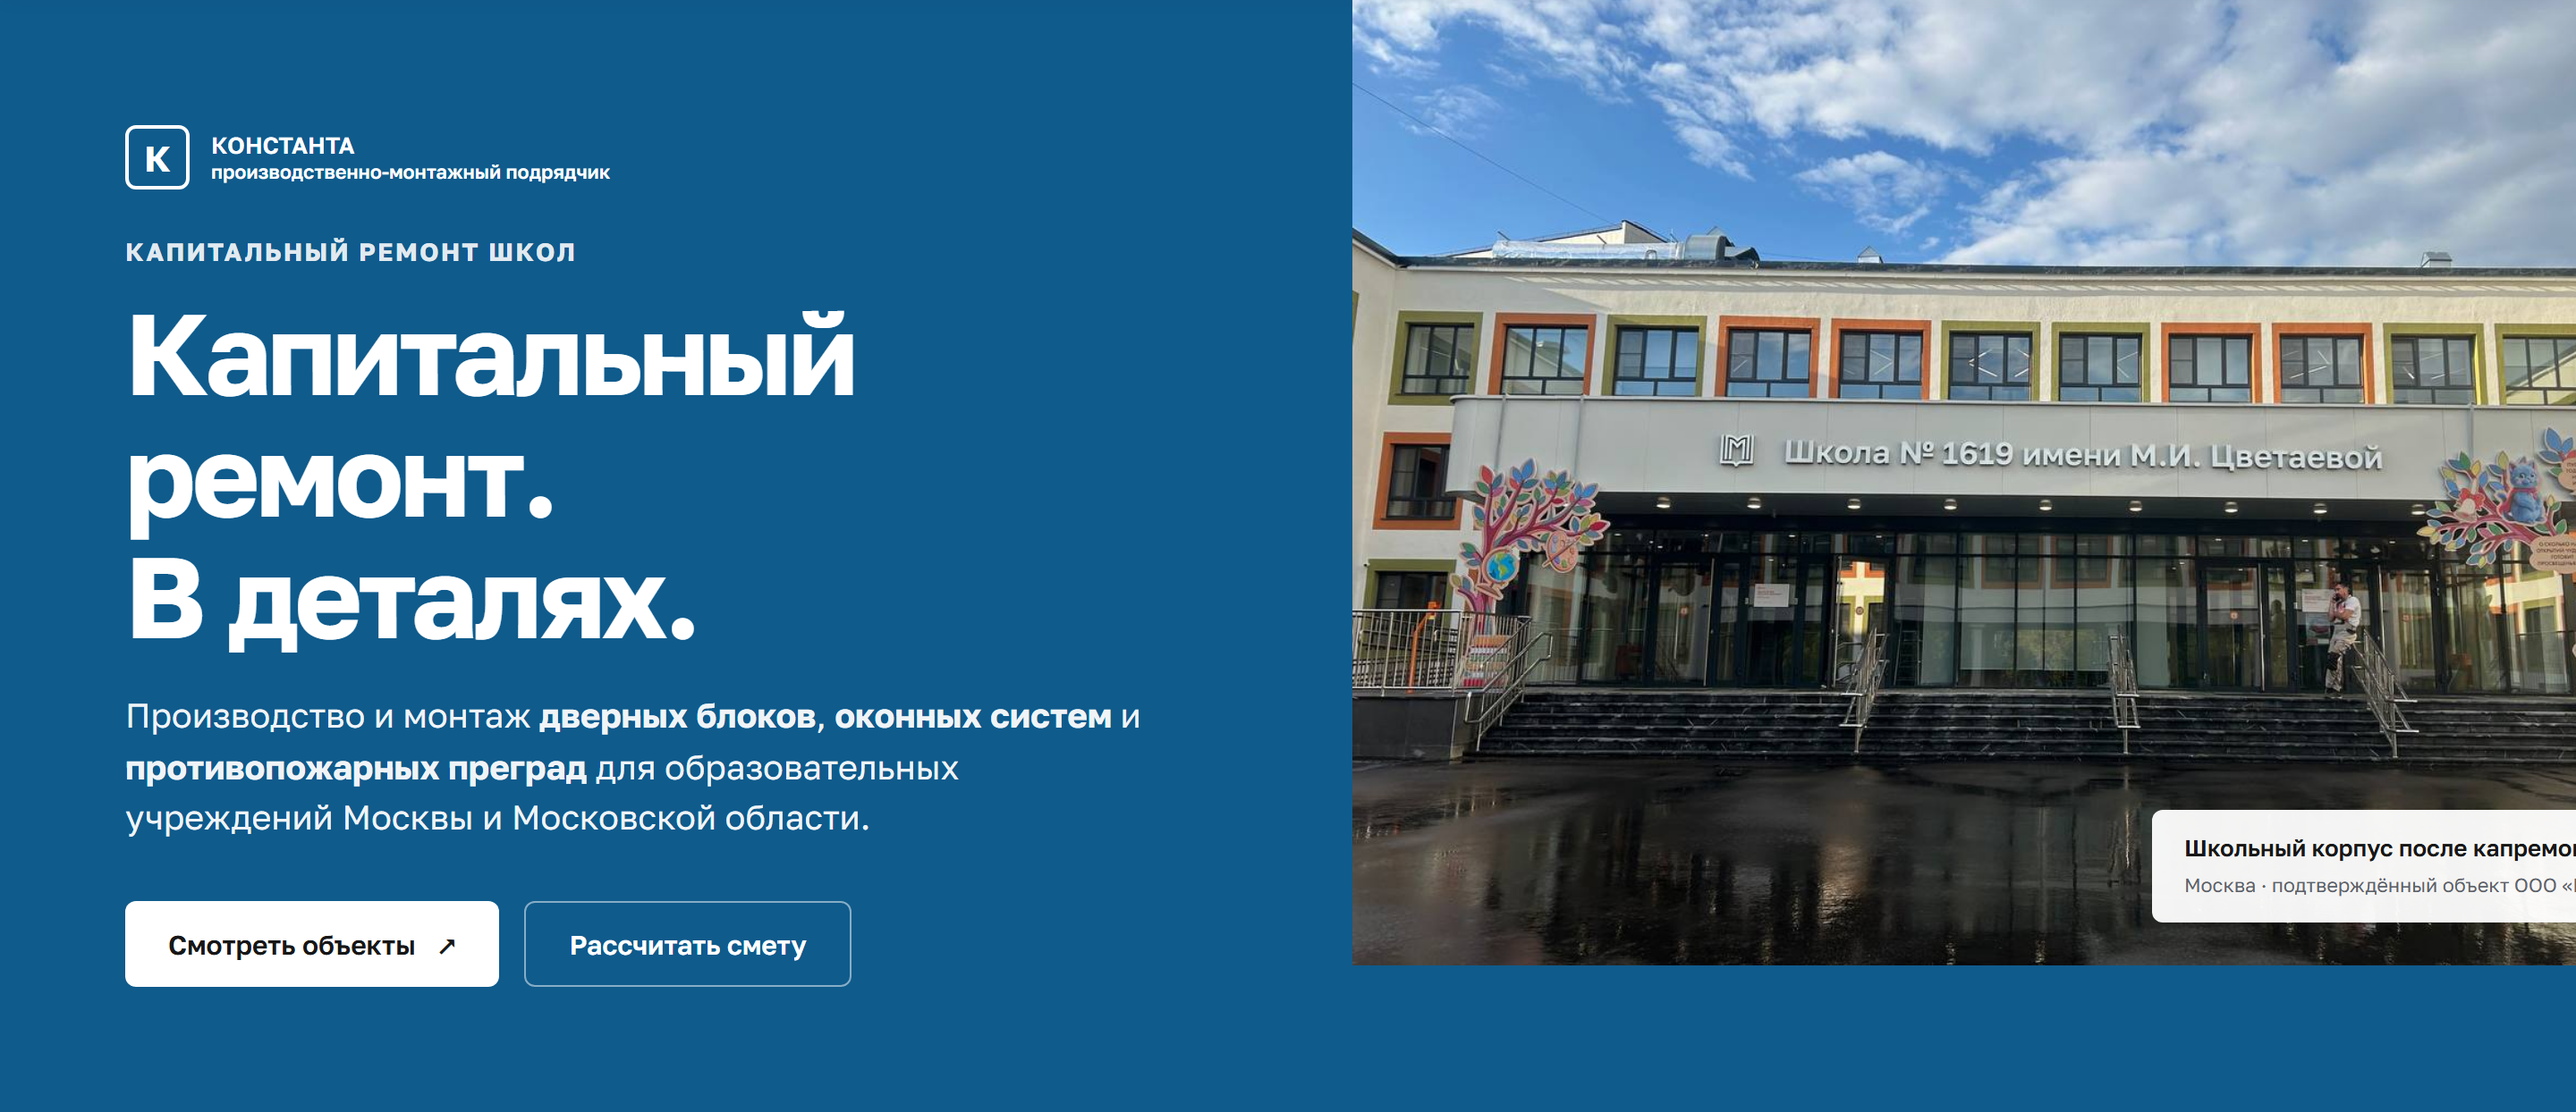
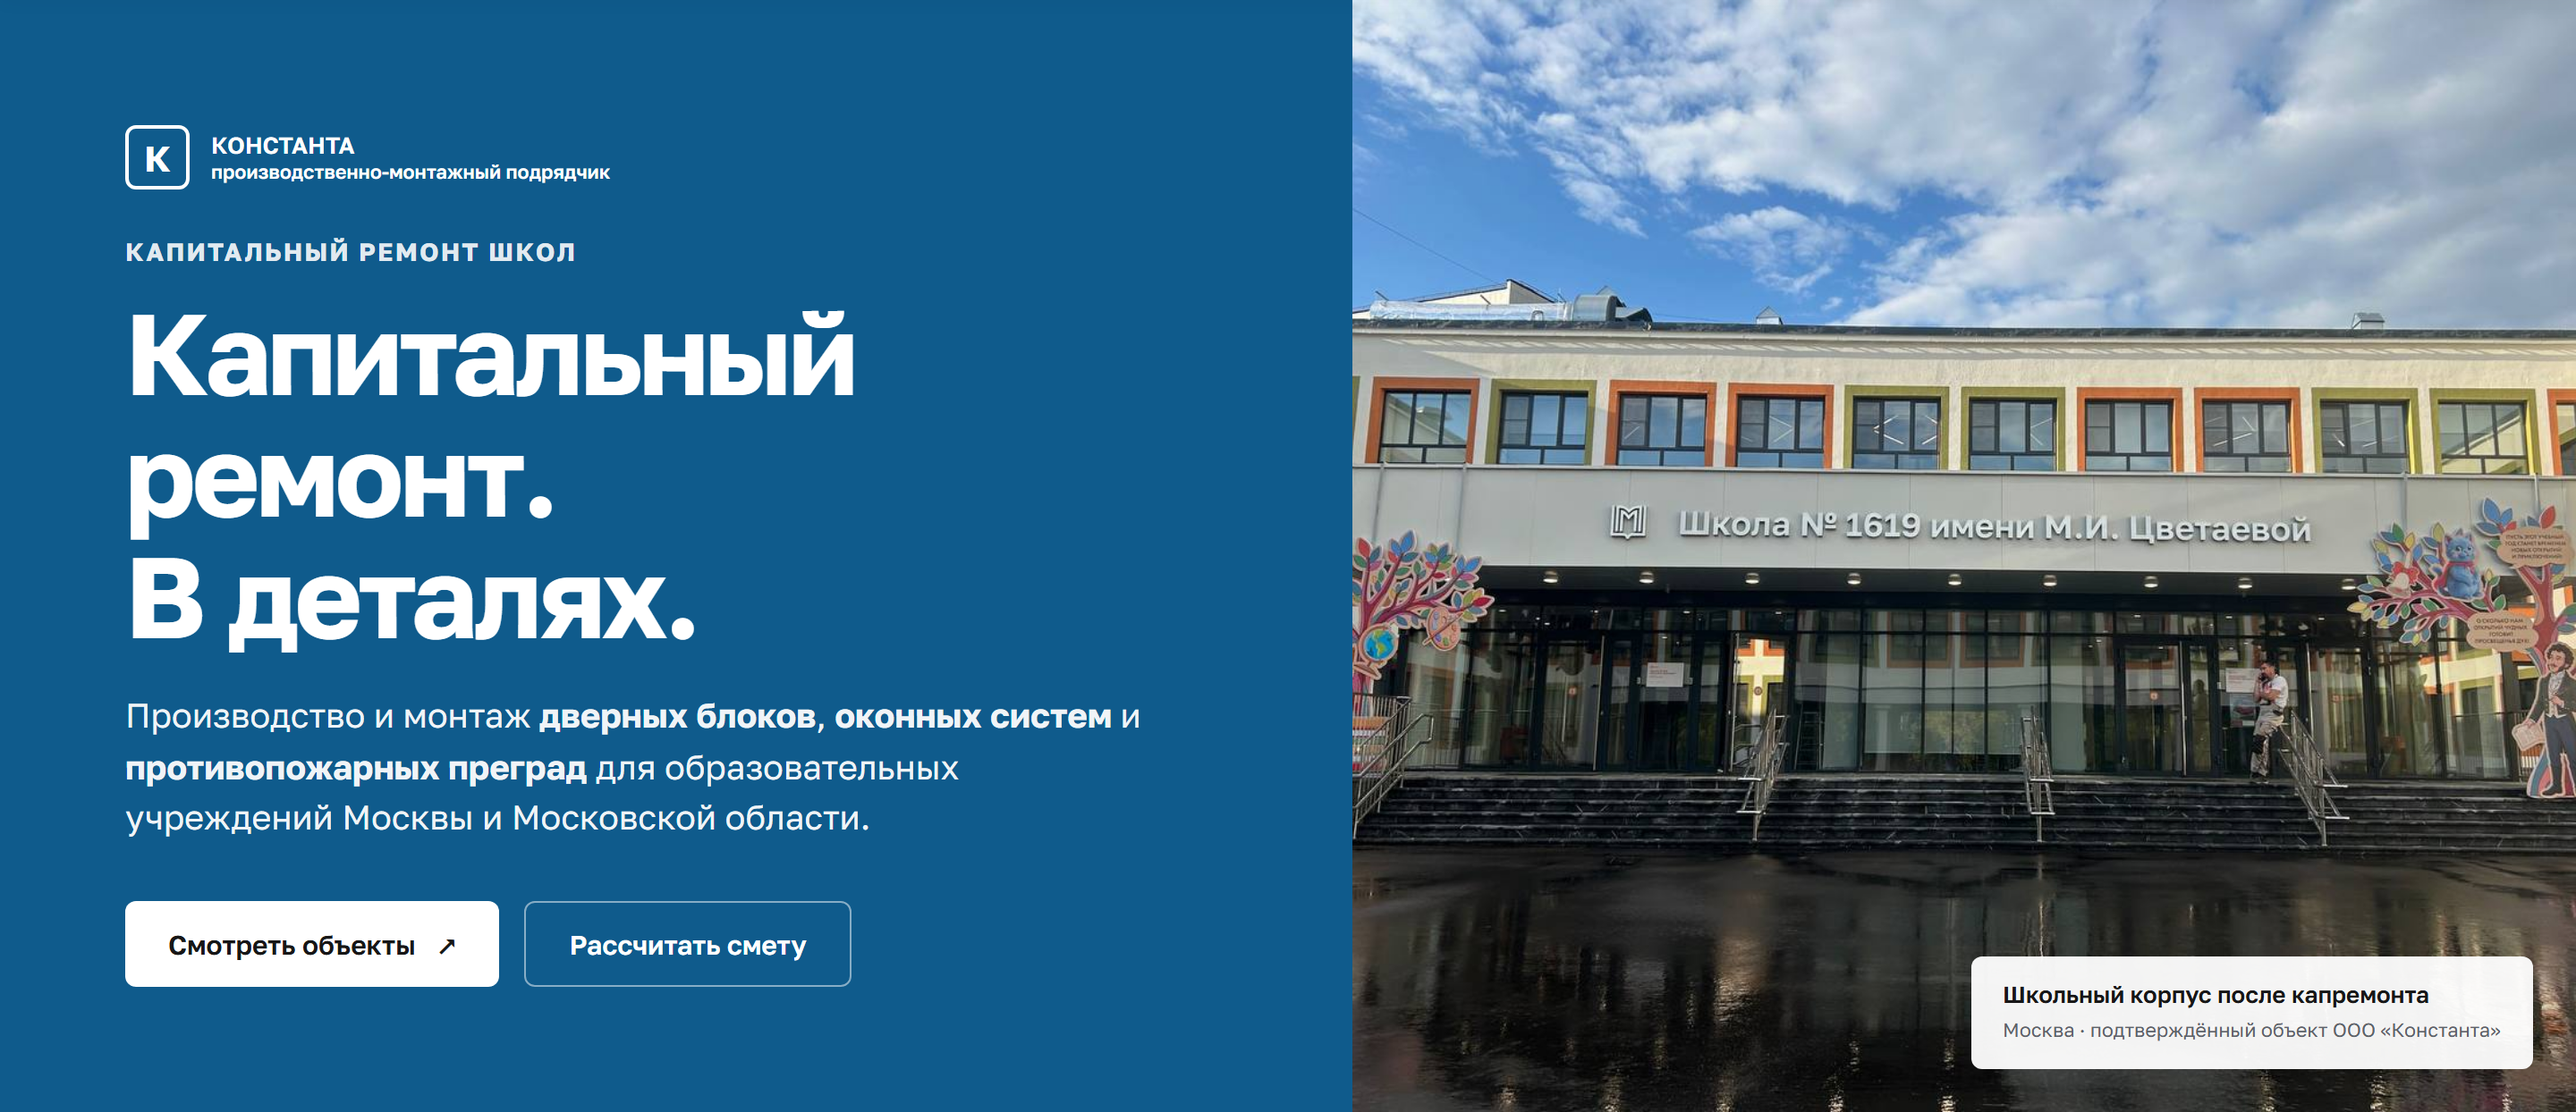
fix(hero): eliminate photo overflow with minmax grid tracks and absolute object-fit

diff --git a/styles.css b/styles.css
@@ -511,9 +511,11 @@ main, .site-footer {
 .mos-hero {
   min-height: 540px;
   display: grid;
-  grid-template-columns: 1.05fr 0.95fr;
+  grid-template-columns: minmax(0, 1.05fr) minmax(0, 0.95fr);
   background: var(--blue);
   color: var(--white);
+  overflow: hidden;
+  position: relative;
 }
 
 .hero-copy {
@@ -522,6 +524,7 @@ main, .site-footer {
   justify-content: center;
   align-items: flex-start;
   padding: clamp(40px, 5vw, 70px) clamp(24px, 5vw, 70px);
+  min-width: 0;
 }
 
 .hero-sign {
@@ -601,17 +604,24 @@ main, .site-footer {
 }
 
 .hero-photo {
-  min-height: 540px;
-  aspect-ratio: 16 / 11;
   position: relative;
+  width: 100%;
+  height: 100%;
+  min-height: 540px;
+  min-width: 0;
   overflow: hidden;
   background: #cde8ed;
 }
 
 .hero-photo img {
+  position: absolute;
+  top: 0;
+  left: 0;
   width: 100%;
   height: 100%;
   object-fit: cover;
+  object-position: center;
+  display: block;
 }
 
 .photo-note {
@@ -2847,10 +2857,13 @@ main, .site-footer {
 
   .mos-hero {
     grid-template-columns: 1fr;
+    min-height: auto;
   }
 
   .hero-photo {
     min-height: 320px;
+    height: 340px;
+    width: 100%;
   }
 
   .metrics-bar {
